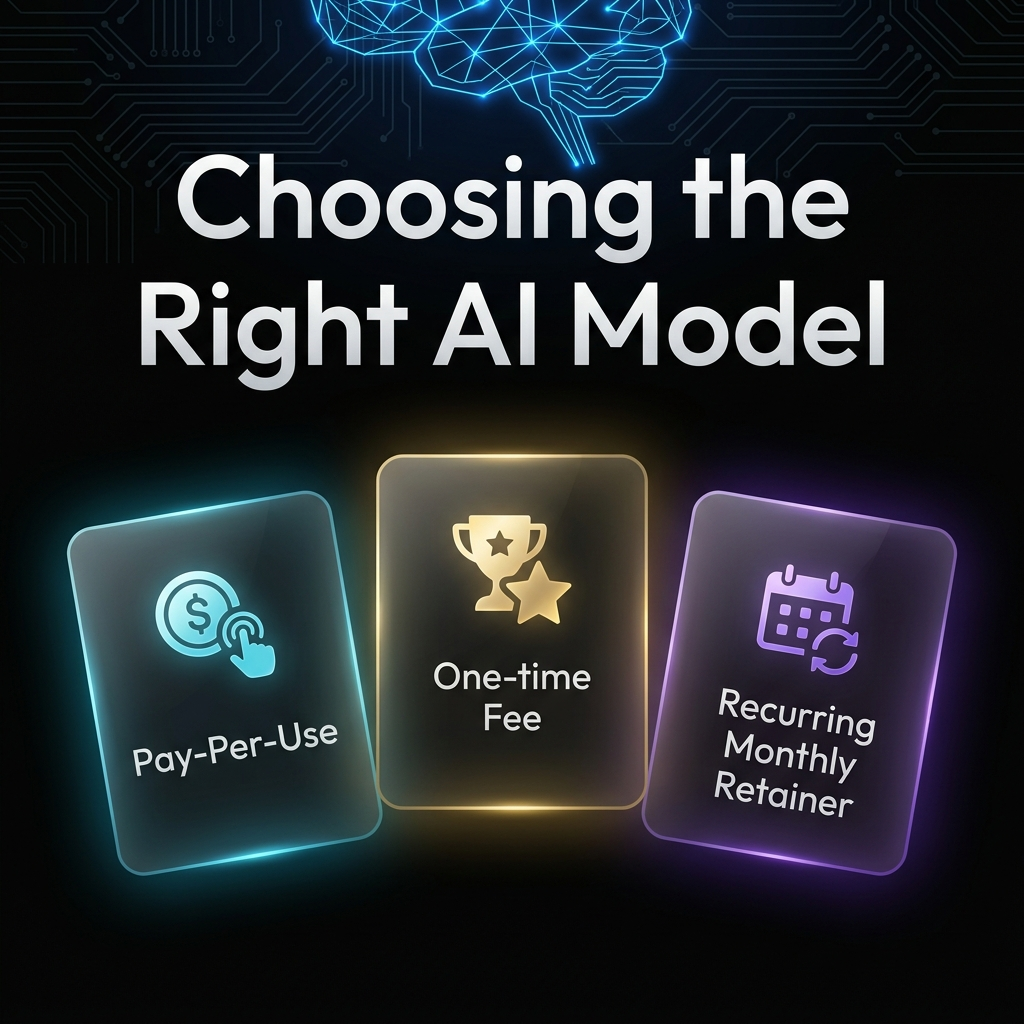
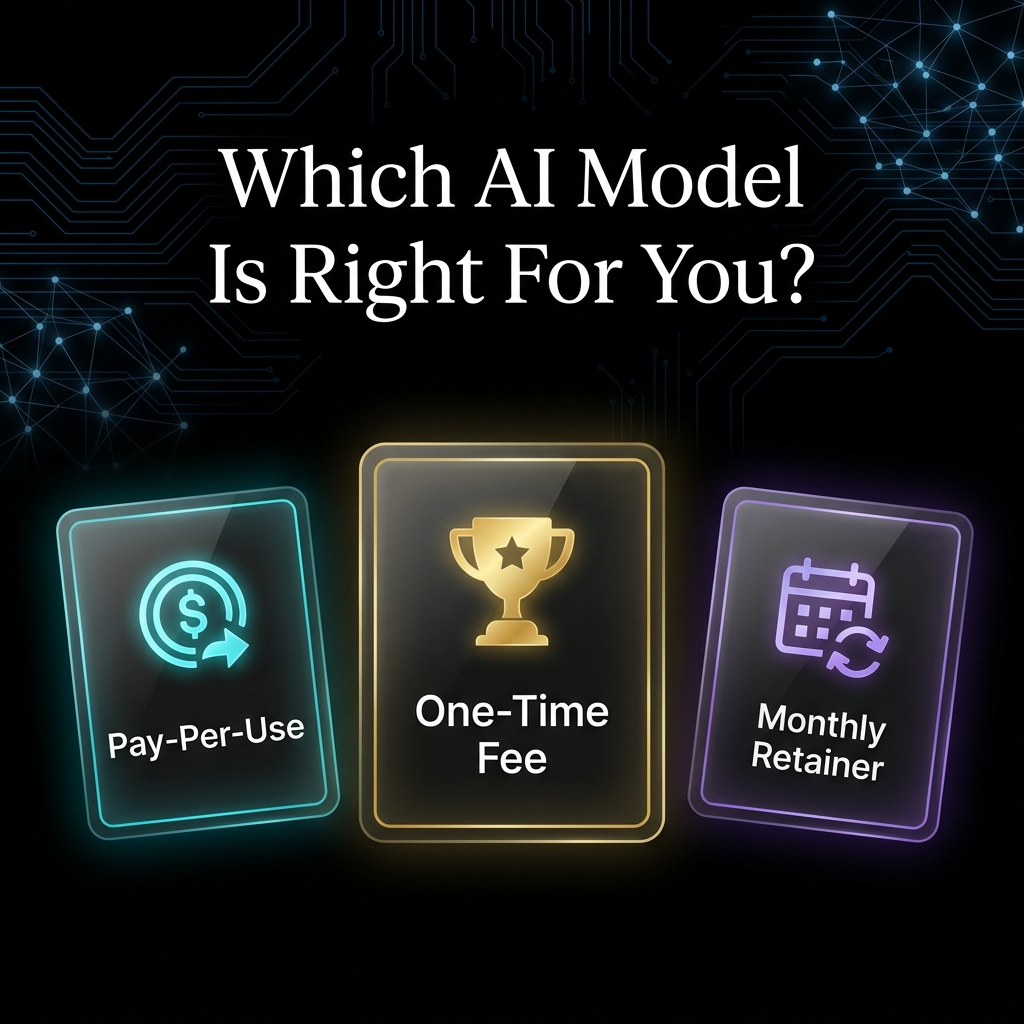
fixing image 270626

diff --git a/Website SEO/public_html/blog/ar/2026-06-26-pay-per-use-vs-one-time-fee-vs-monthly-retainer-ai-automation.html b/Website SEO/public_html/blog/ar/2026-06-26-pay-per-use-vs-one-time-fee-vs-monthly-retainer-ai-automation.html
@@ -177,7 +177,7 @@
                 <p class="text-xl text-gray-400 max-w-2xl mx-auto">اختيار النموذج الخاطئ يُهدر المال. اختيار النموذج الصحيح يُدرّ عائداً في 30 يوماً. إليك كيفية الاختيار لعملك في عُمان ودول الخليج.</p>
             </div>
 
-            <img src="/blog/images/ai_pricing_model_comparison.png" alt="ai_pricing_model_comparison - حلول الذكاء الاصطناعي المبتكرة من AI Profit Lab لتطوير أعمالك." class="w-full rounded-3xl mb-16 shadow-[0_0_50px_rgba(59,130,246,0.15)] border border-white/5 object-contain">
+            <img src="/blog/images/ai_pricing_model_comparison.png" alt="ai_pricing_model_comparison - حلول الذكاء الاصطناعي المبتكرة من AI Profit Lab لتطوير أعمالك." class="w-full rounded-3xl mb-16 shadow-[0_0_50px_rgba(59,130,246,0.15)] border border-white/5 object-contain max-h-[600px] bg-[#050505]">
 
             <div class="prose max-w-none text-right-ar">
 

diff --git a/Website SEO/public_html/blog/en/2026-06-26-pay-per-use-vs-one-time-fee-vs-monthly-retainer-ai-automation.html b/Website SEO/public_html/blog/en/2026-06-26-pay-per-use-vs-one-time-fee-vs-monthly-retainer-ai-automation.html
@@ -176,7 +176,7 @@
                 <p class="text-xl text-gray-400 max-w-2xl mx-auto">The wrong pricing model wastes money. The right one pays for itself in 30 days. Here is how to choose for your business in Oman and the GCC.</p>
             </div>
 
-            <img src="/blog/images/ai_pricing_model_comparison.png" alt="ai_pricing_model_comparison - Empowering AI Solutions by AI Profit Lab to scale your business operations." class="w-full rounded-3xl mb-16 shadow-[0_0_50px_rgba(59,130,246,0.15)] border border-white/5 object-contain">
+            <img src="/blog/images/ai_pricing_model_comparison.png" alt="ai_pricing_model_comparison - Empowering AI Solutions by AI Profit Lab to scale your business operations." class="w-full rounded-3xl mb-16 shadow-[0_0_50px_rgba(59,130,246,0.15)] border border-white/5 object-contain max-h-[600px] bg-[#050505]">
 
             <div class="prose max-w-none">
 